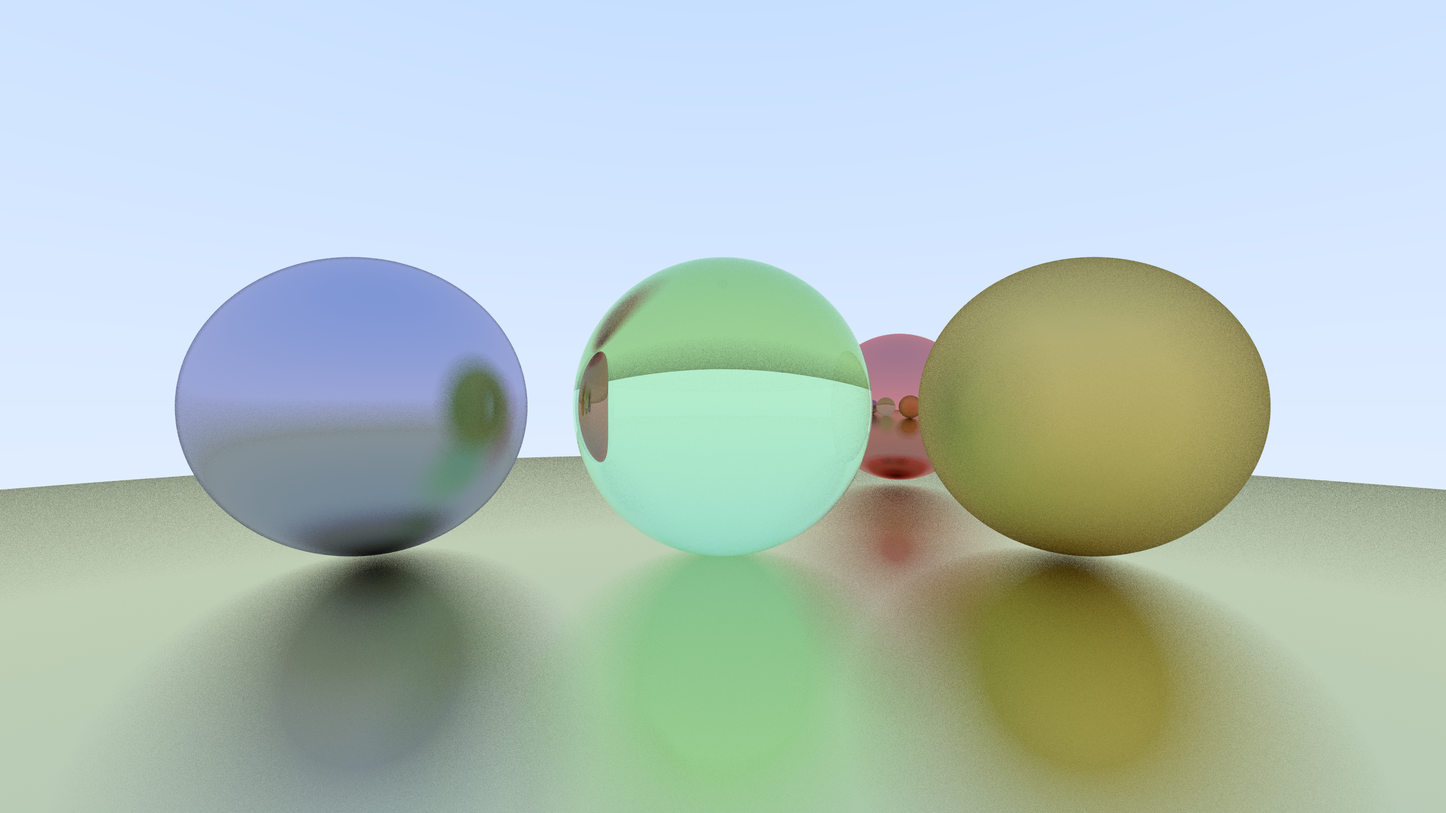
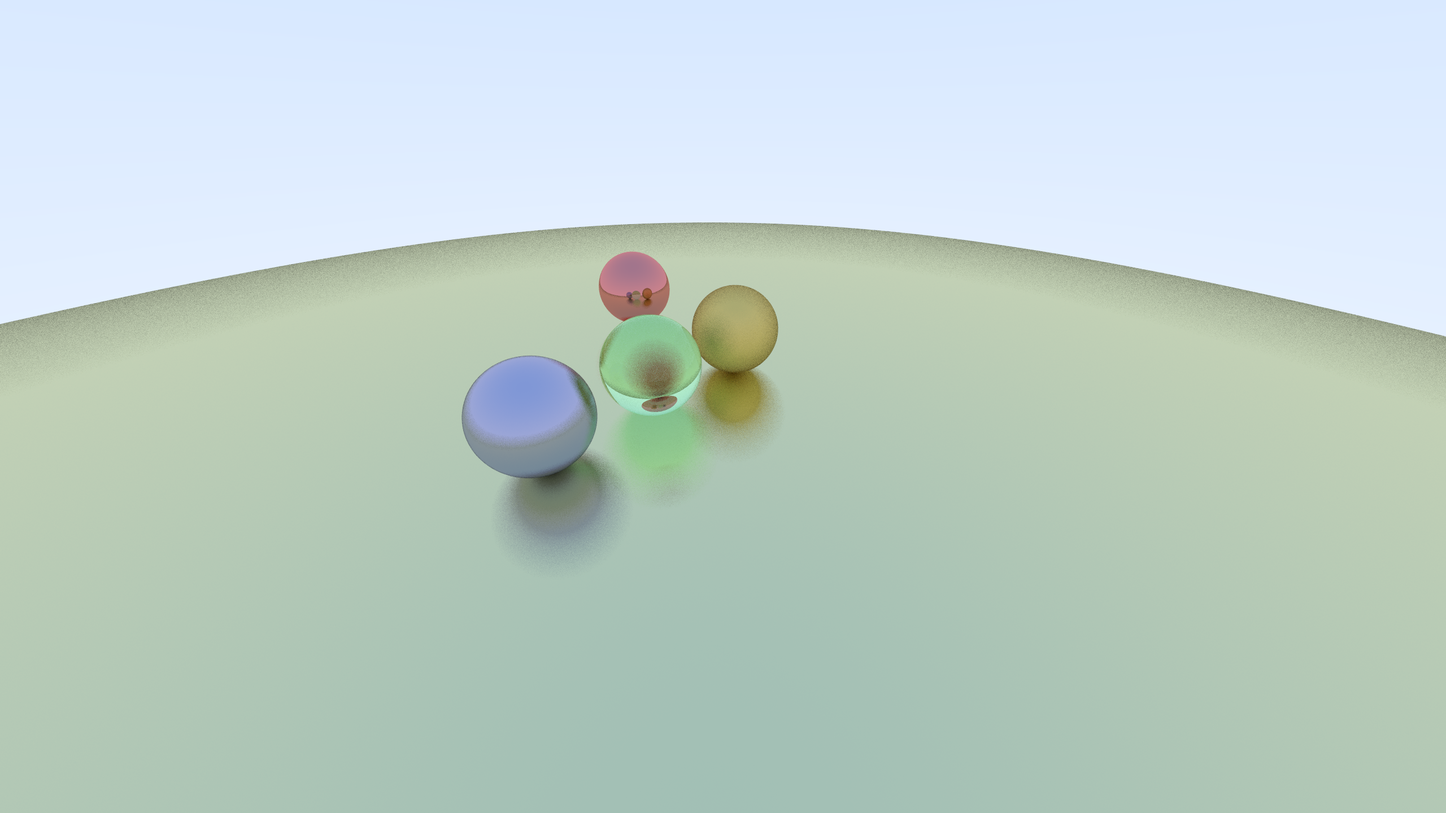
added camera control

diff --git a/src/objects/camera.rs b/src/objects/camera.rs
@@ -9,19 +9,21 @@ pub struct Camera {
 }
 
 impl Camera {
-    pub fn from_image(image: &Image, fov: f64) -> Camera {
-
+    pub fn from_image(image: &Image, fov: f64, look_from: Vector, look_at: Vector, up: Vector) -> Camera {
         let theta = degree_to_radian(fov);
         let h = (theta / 2.0).tan();
-
         let viewport_height = 2.0 * h;
         let viewport_width = image.aspect_ratio * viewport_height;
-        let focal_length = 1.0;
+        // let focal_length = 1.0;
 
-        let origin = Vector::new(0.0, 0.0, 0.0);
-        let horizontal = Vector::new(viewport_width, 0.0, 0.0);
-        let vertical = Vector::new(0.0, viewport_height, 0.0);
-        let lower_left_corner = origin - horizontal / 2.0 as f64 - vertical / 2.0 as f64 - Vector::new(0.0, 0.0, focal_length);
+        let w = (look_from - look_at).unit_vector();
+        let u = up.cross(&w).unit_vector();
+        let v = w.cross(&u);
+
+        let origin = look_from;
+        let horizontal = viewport_width * u;
+        let vertical = viewport_height * v;
+        let lower_left_corner = origin - horizontal / 2.0 - vertical / 2.0 - w;
         
         Camera { 
             origin, 
@@ -31,10 +33,10 @@ impl Camera {
         }
     }
 
-    pub fn get_ray(&self, u: f64, v: f64) -> Ray {
+    pub fn get_ray(&self, s: f64, t: f64) -> Ray {
         Ray { 
             origin: self.origin, 
-            direction: self.lower_left_corner + u * self.horizontal + v * self.vertical - self.origin 
+            direction: self.lower_left_corner + s * self.horizontal + t * self.vertical - self.origin 
         }
     }
 }

diff --git a/src/main.rs b/src/main.rs
@@ -6,11 +6,9 @@ use primitives::{color::Color, vector::{Vector, Vec3}, ray::Ray};
 use objects::{image::Image, camera::Camera};
 use image::{RgbImage, Rgb, ImageBuffer};
 use rayon::prelude::*;
-use shapes::{hittable::{Hittable, HitRecord}, sphere::Sphere, material::{Material, MaterialType}};
-use std::{f64::{consts::PI, INFINITY}, sync::{Arc, Mutex}, time::{Instant}};
+use shapes::{hittable::{Hittable, HitRecord}, sphere::Sphere, material::{Material}};
+use std::{f64::{consts::PI, INFINITY}, sync::{Mutex}, time::{Instant}};
 use rand::prelude::*;
-
-use crate::shapes::material;
 
 const SAMPLES_PER_PIXEL: i32 = 30;
 const MAX_DEPTH: i32 = 50;
@@ -18,7 +16,13 @@ const MAX_DEPTH: i32 = 50;
 fn main() {
 
     let image = Image::new_with_height(16.0 / 9.0, 1440);
-    let camera = Camera::from_image(&image, 70.0);
+    let camera = Camera::from_image(
+        &image, 
+        90.0, 
+        Vector::new(-2.0, 2.0, 1.0), 
+        Vector::new(0.0, 0.0, -1.0), 
+        Vector::new(0.0, 1.0, 0.0)
+    );
     let mut world: Vec<Box<dyn Hittable + Send + Sync>> = Vec::new();
 
     let ground = Material::new_metal(Color::new(0.8, 0.8, 0.5), 0.2);
